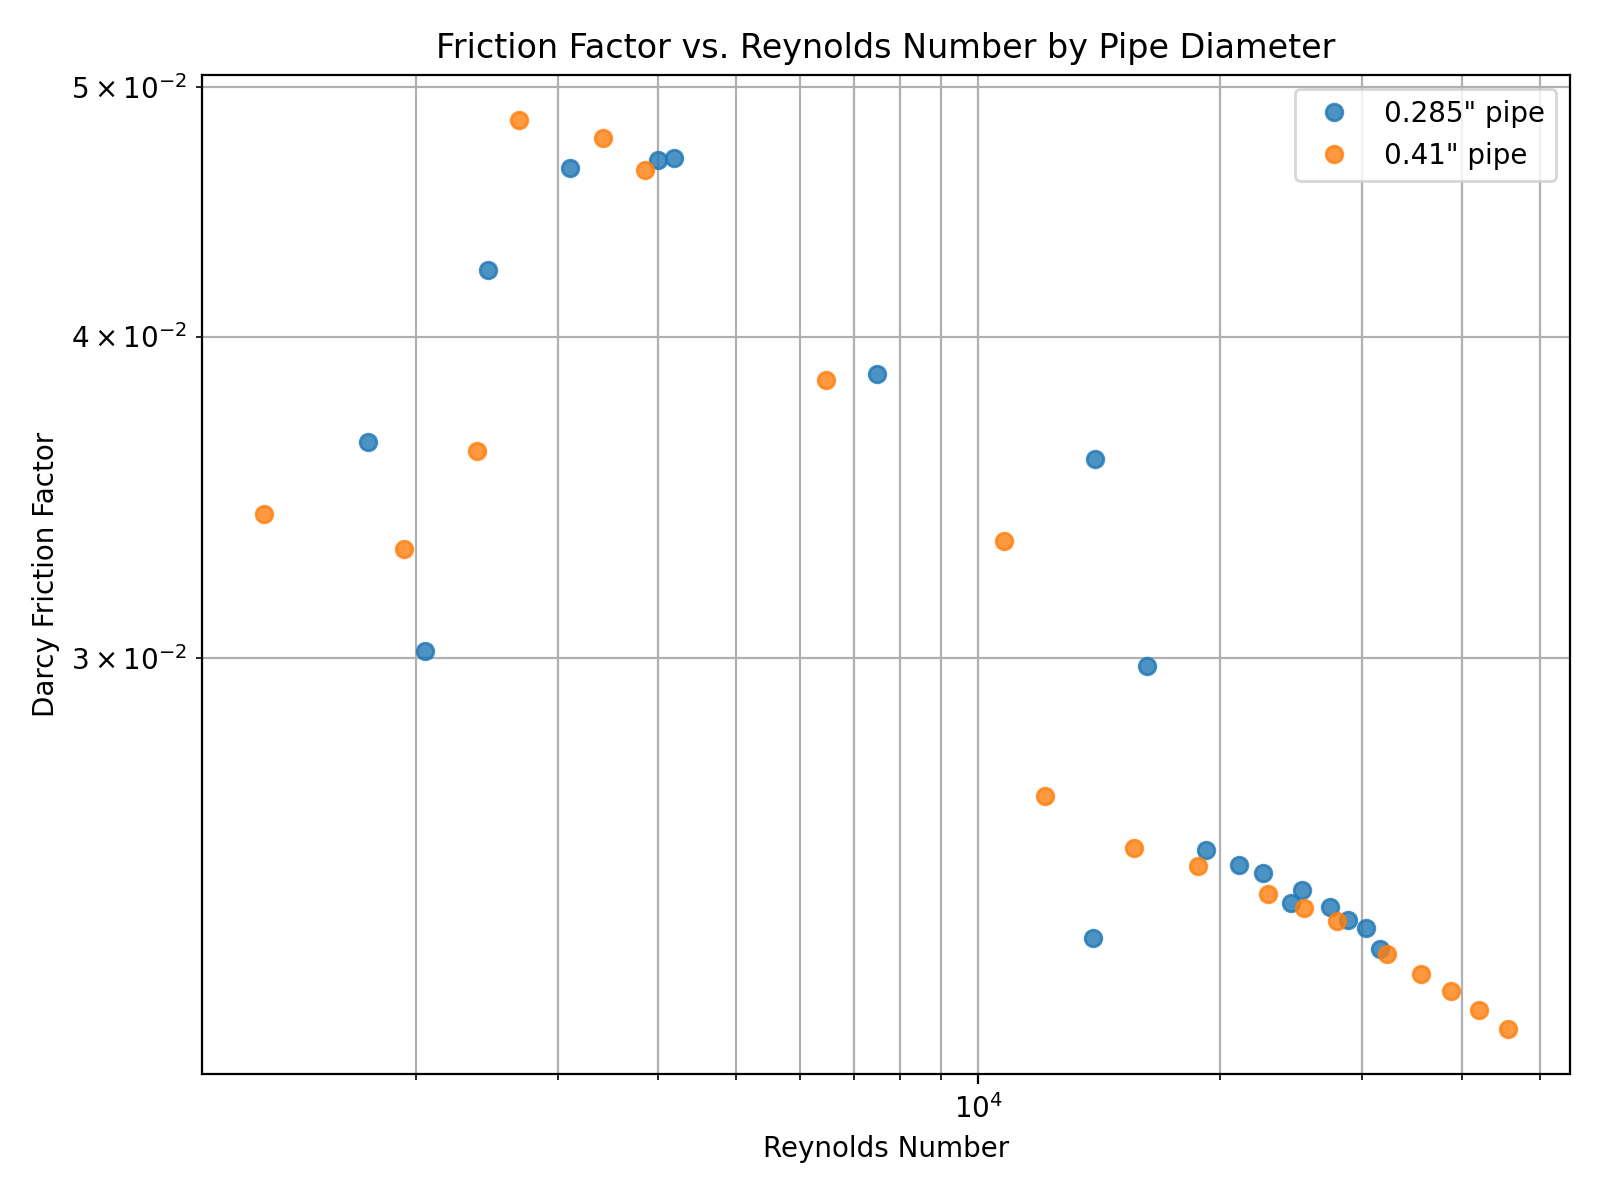
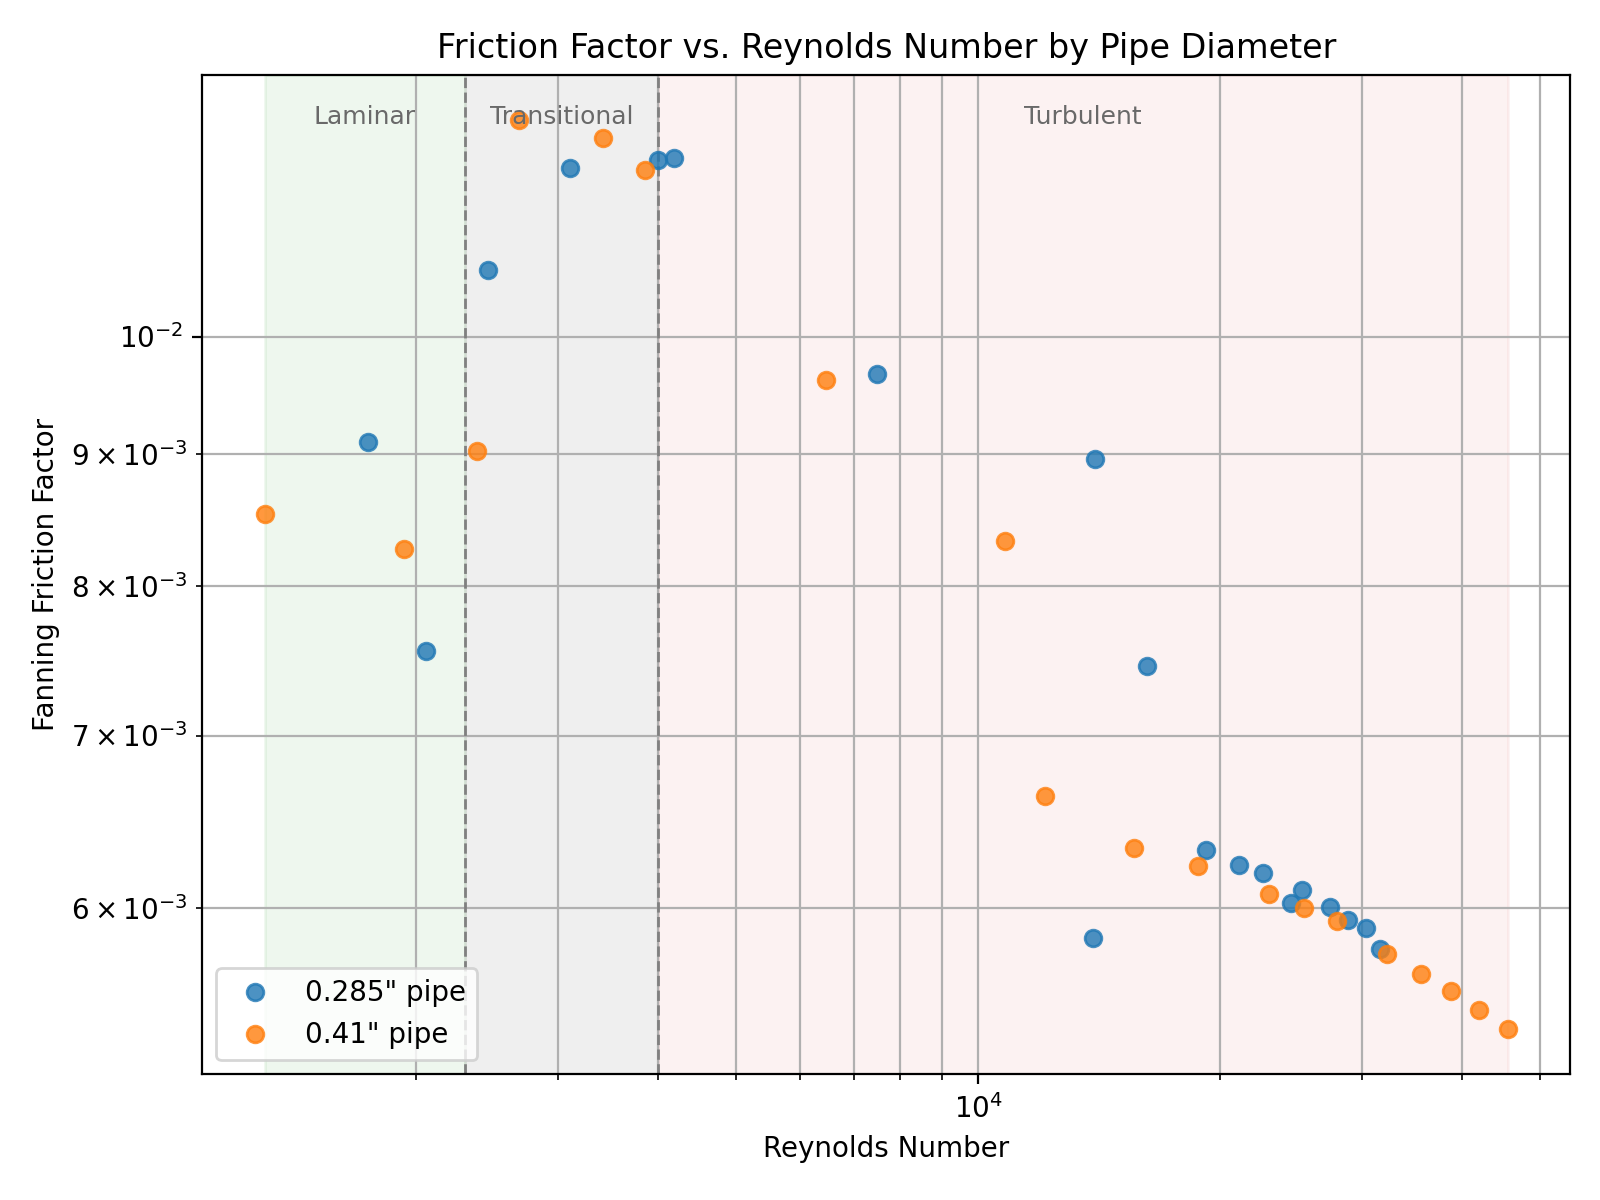
friction factor plots

diff --git a/create_plots.py b/create_plots.py
@@ -68,7 +68,7 @@ def reynolds_number(diameter, flow_rate_lpm):
     return rho * v * d / mu
 
 def friction_factor(diameter, flow_rate_lpm, delta_p):
-    """Darcy friction factor for a pipe (nominal diameter in inches), flow rate (LPM),
+    """Fanning friction factor for a pipe (nominal diameter in inches), flow rate (LPM),
     and pressure drop (Pa)."""
     spec = PIPE_SPECS[diameter]
     d = spec["diameter_in"] * 0.0254
@@ -76,7 +76,7 @@ def friction_factor(diameter, flow_rate_lpm, delta_p):
     area = math.pi / 4 * d**2
     q = flow_rate_lpm / 60000  # LPM -> m^3/s
     v = q / area
-    return delta_p * d / (length * 0.5 * rho * v**2)
+    return delta_p * d / (length * 2 * rho * v**2)
 
 def friction_reynolds(rows):
     """Compute Reynolds number and friction factor, with error bars, for each averaged group."""
@@ -119,12 +119,23 @@ def create_plot(rows, filename="flow_vs_pressure.png"):
     plt.close(fig)
     print(f"Saved plot to {filename}")
 
+LAMINAR_RE = 2300
+TURBULENT_RE = 4000
+
 def create_friction_plot(results, filename="friction_factor_vs_reynolds.png"):
     fig, ax = plt.subplots(figsize=(8, 6))
 
     diameters = sorted(set(r[0] for r in results))
     colors = {diameters[0]: "tab:blue", diameters[1]: "tab:orange"} if len(diameters) == 2 \
         else {d: c for d, c in zip(diameters, plt.cm.tab10.colors)}
+
+    re_min = min(r[1] for r in results)
+    re_max = max(r[1] for r in results)
+    ax.axvspan(re_min, LAMINAR_RE, color="tab:green", alpha=0.08)
+    ax.axvspan(LAMINAR_RE, TURBULENT_RE, color="tab:gray", alpha=0.12)
+    ax.axvspan(TURBULENT_RE, re_max, color="tab:red", alpha=0.06)
+    ax.axvline(LAMINAR_RE, color="gray", linestyle="--", linewidth=1)
+    ax.axvline(TURBULENT_RE, color="gray", linestyle="--", linewidth=1)
 
     for diameter in diameters:
         subset = [r for r in results if r[0] == diameter]
@@ -136,8 +147,54 @@ def create_friction_plot(results, filename="friction_factor_vs_reynolds.png"):
     ax.set_xscale("log")
     ax.set_yscale("log")
     ax.set_xlabel("Reynolds Number")
-    ax.set_ylabel("Darcy Friction Factor")
+    ax.set_ylabel("Fanning Friction Factor")
     ax.set_title("Friction Factor vs. Reynolds Number by Pipe Diameter")
+
+    for label, x in [("Laminar", (re_min * LAMINAR_RE)**0.5),
+                      ("Transitional", (LAMINAR_RE * TURBULENT_RE)**0.5),
+                      ("Turbulent", (TURBULENT_RE * re_max)**0.5)]:
+        ax.text(x, 0.97, label, transform=ax.get_xaxis_transform(),
+                ha="center", va="top", fontsize=9, color="dimgray")
+
+    ax.legend(loc="lower left")
+    ax.grid(True, which="both")
+    fig.tight_layout()
+    fig.savefig(filename, dpi=200)
+    plt.close(fig)
+    print(f"Saved plot to {filename}")
+
+def create_laminar_comparison_plot(results, filename="laminar_friction_comparison.png"):
+    """Compare the laminar-regime (Re < 2300) data to the f = 16/Re correlation
+    for the Fanning friction factor."""
+    laminar = [r for r in results if r[1] < LAMINAR_RE]
+    if not laminar:
+        print("No laminar-regime data to plot.")
+        return
+
+    fig, ax = plt.subplots(figsize=(8, 6))
+
+    diameters = sorted(set(r[0] for r in laminar))
+    colors = {diameters[0]: "tab:blue", diameters[1]: "tab:orange"} if len(diameters) == 2 \
+        else {d: c for d, c in zip(diameters, plt.cm.tab10.colors)}
+
+    for diameter in diameters:
+        subset = [r for r in laminar if r[0] == diameter]
+        re = [r[1] for r in subset]
+        f = [r[3] for r in subset]
+        color = colors[diameter]
+        ax.plot(re, f, 'o', label=f'{diameter}" pipe (measured)', color=color, alpha=0.8)
+
+    re_min = min(r[1] for r in laminar)
+    re_max = max(r[1] for r in laminar)
+    re_curve = [re_min * (re_max / re_min)**(i / 99) for i in range(100)]
+    f_curve = [16 / re for re in re_curve]
+    ax.plot(re_curve, f_curve, '--', color="black", label="f = 16/Re")
+
+    ax.set_xscale("log")
+    ax.set_yscale("log")
+    ax.set_xlabel("Reynolds Number")
+    ax.set_ylabel("Fanning Friction Factor")
+    ax.set_title("Laminar Friction Factor vs. f = 16/Re Correlation")
     ax.legend()
     ax.grid(True, which="both")
     fig.tight_layout()
@@ -160,3 +217,4 @@ for diameter, re, std_re, f, std_f in friction_results:
     print(f'{diameter}" pipe: Re={re:.0f}+/-{std_re:.0f}, f={f:.4f}+/-{std_f:.4f}')
 
 create_friction_plot(friction_results)
+create_laminar_comparison_plot(friction_results)
